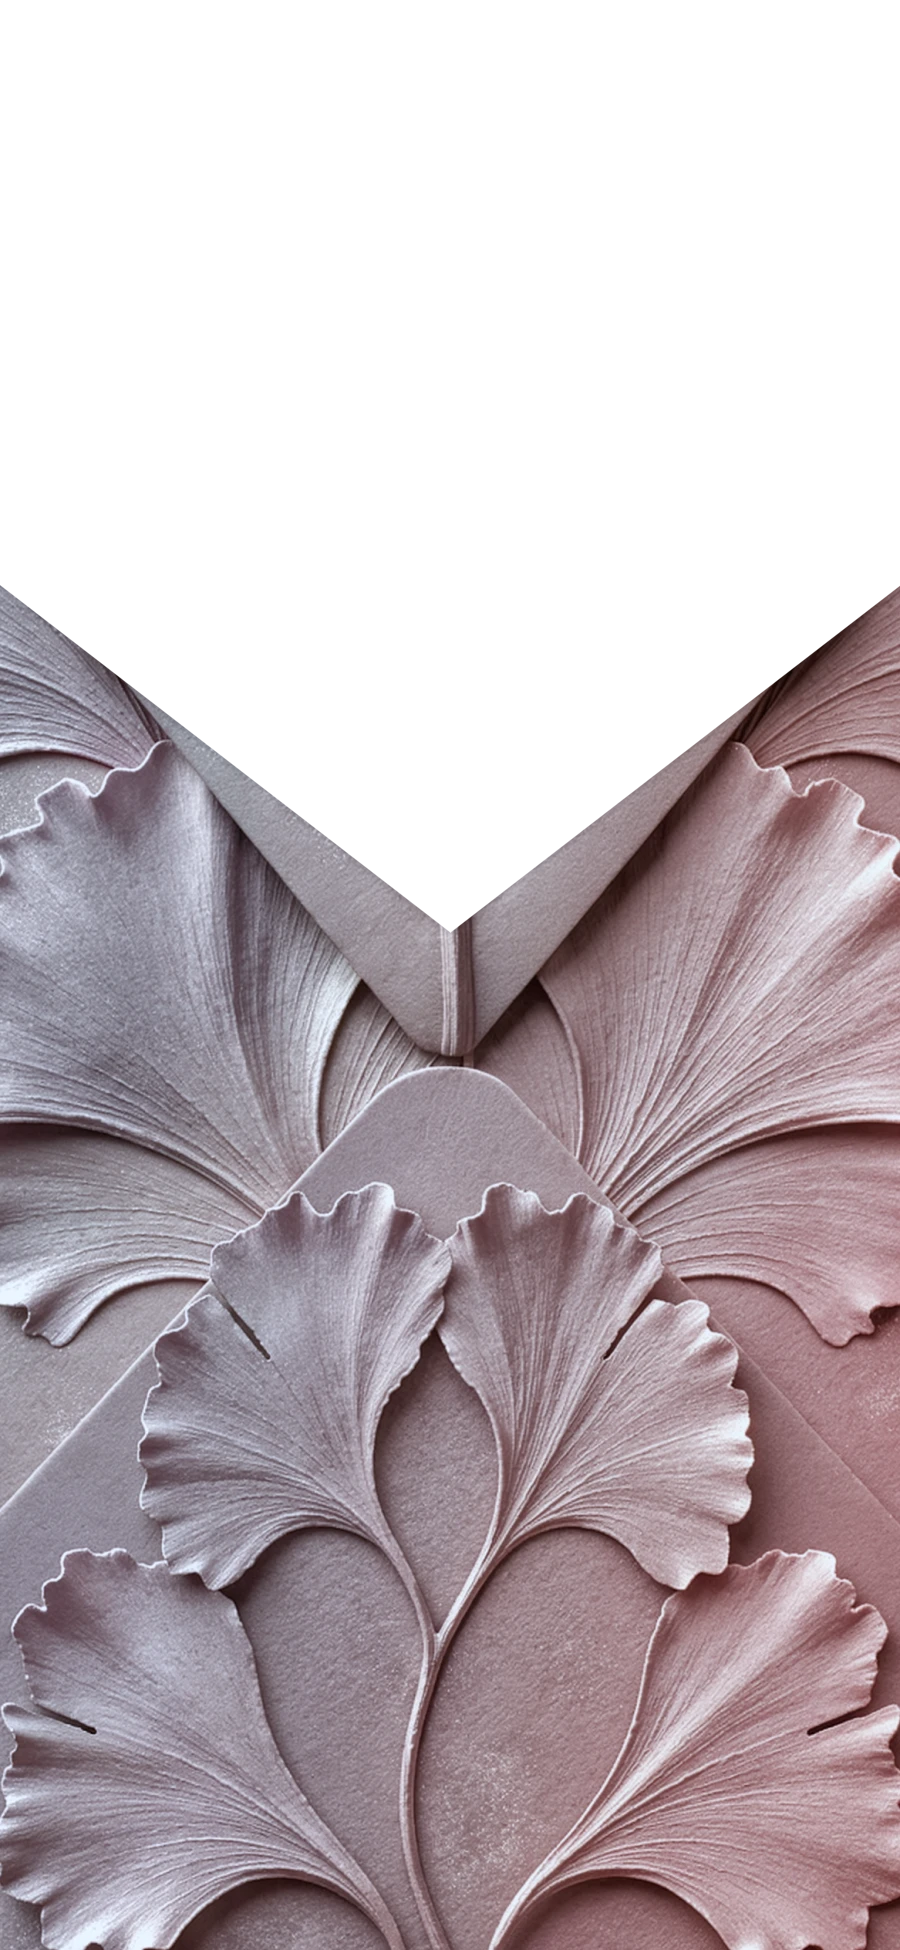
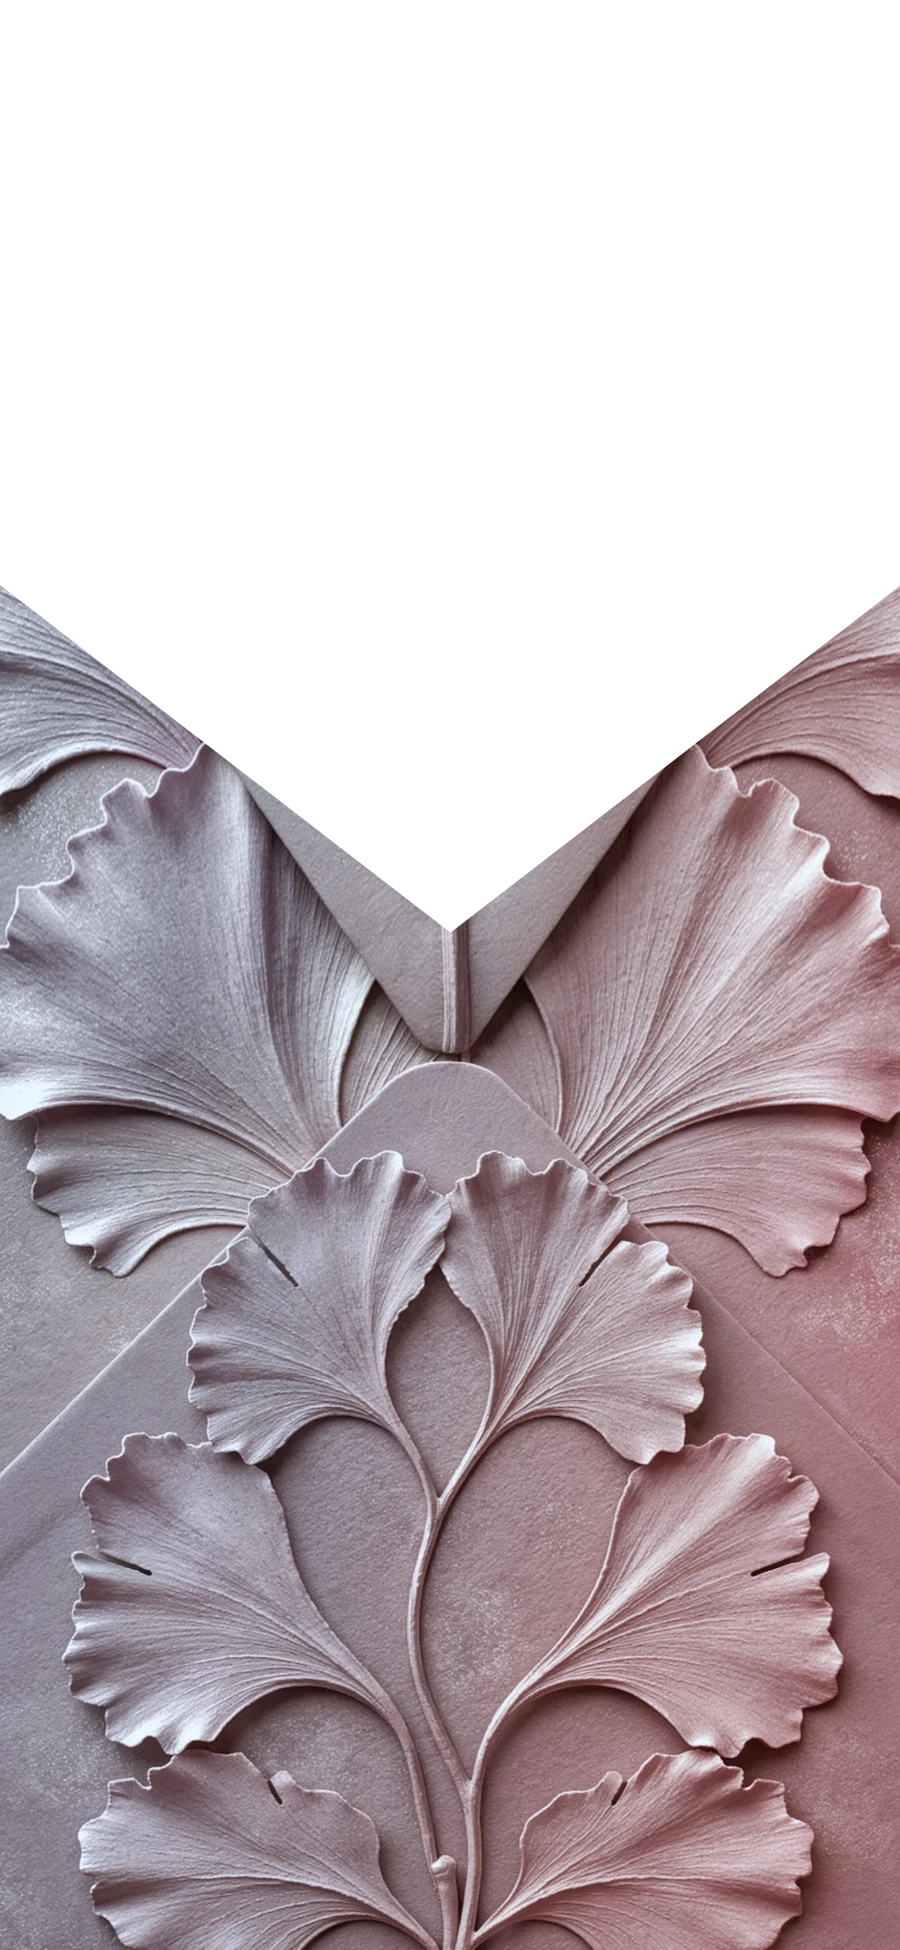
Website: cover B shows the whole design, picture's own fold only (no drawn flap edge or shadow band)

diff --git a/Wedding Website/index - cover B.html b/Wedding Website/index - cover B.html
@@ -13,11 +13,11 @@
 <link rel="preload" as="image" href="assets/seal.webp?v=20261126c">
 <link rel="stylesheet" href="style.css?v=20261126c">
 <style>/* version B: the second cover artwork */
-.env-body { background-image: url(assets/cover-b/envelope-body.webp?v=1); }
-.flap-face.front { background-image: url(assets/cover-b/envelope-flap.webp?v=1); }
-.flap-face.dim { background-image: url(assets/cover-b/envelope-flap-dim.webp?v=1); }
-.flap-face.back { background-image: url(assets/cover-b/envelope-flap-back.webp?v=1); }
-.flap-shadow { background-image: url(assets/cover-b/envelope-flap-shadow.webp?v=1); }
+.env-body { background-image: url(assets/cover-b/envelope-body.webp?v=2); }
+.flap-face.front { background-image: url(assets/cover-b/envelope-flap.webp?v=2); }
+.flap-face.dim { background-image: url(assets/cover-b/envelope-flap-dim.webp?v=2); }
+.flap-face.back { background-image: url(assets/cover-b/envelope-flap-back.webp?v=2); }
+.flap-shadow { background-image: url(assets/cover-b/envelope-flap-shadow.webp?v=2); }
 </style>
 </head>
 <body class="locked">

diff --git a/Wedding Website/tools/envelope_from_image.py b/Wedding Website/tools/envelope_from_image.py
@@ -31,11 +31,24 @@ def main(src):
         for n in NAMES: shutil.copy(OUT / n, bak / n)
     im = cv2.imread(src)
     h, w = im.shape[:2]
-    if w / h > W / H:                         # too wide: crop the sides
-        nw = int(round(h * W / H)); x0 = (w - nw) // 2; im = im[:, x0:x0 + nw]
-    else:                                     # too tall: crop top and bottom
-        nh = int(round(w * H / W)); y0 = (h - nh) // 2; im = im[y0:y0 + nh]
-    art = cv2.resize(im, (W, H), interpolation=cv2.INTER_AREA).astype(np.float32)
+    TIP = float(sys.argv[3]) if len(sys.argv) > 3 else None      # where the flap's point is in the picture (0..1 of its height)
+    ZOOM = float(sys.argv[4]) if len(sys.argv) > 4 else 1.0      # 1 = the picture's full width is shown
+    if TIP is None:                                              # simple centre crop
+        if w / h > W / H:
+            nw = int(round(h * W / H)); x0 = (w - nw) // 2; im = im[:, x0:x0 + nw]
+        else:
+            nh = int(round(w * H / W)); y0 = (h - nh) // 2; im = im[y0:y0 + nh]
+        art = cv2.resize(im, (W, H), interpolation=cv2.INTER_AREA).astype(np.float32)
+    else:
+        # show (almost) the whole picture: full width, and its height gently re-spaced so that the picture's own flap
+        # point lands exactly where the animation lifts the flap (53.5 % down). Above and below the point are scaled separately.
+        sc = W * ZOOM / w; xs = (np.arange(W, dtype=np.float32) + (w * sc - W) / 2) / sc
+        tip_src, tip_dst = TIP * h, 0.535 * H
+        yd = np.arange(H, dtype=np.float32)
+        ys = np.where(yd <= tip_dst, yd * tip_src / tip_dst, tip_src + (yd - tip_dst) * (h - tip_src) / (H - tip_dst))
+        print("vertical scale above / below the flap point: %.2f / %.2f" % (tip_dst / (tip_src * sc), (H - tip_dst) / ((h - tip_src) * sc)))
+        mx, my = np.meshgrid(xs, ys)
+        art = cv2.remap(cv2.GaussianBlur(im, (0, 0), 0.6), mx.astype(np.float32), my.astype(np.float32), cv2.INTER_AREA if sc < 1 else cv2.INTER_CUBIC).astype(np.float32)
     # gentle grade toward the site's dusty mauve (target mean about R152 G140 B152), keeping the picture's own light and shade
     mean = art.reshape(-1, 3).mean(0); target = np.array([152, 140, 152], np.float32)      # BGR order happens to be symmetric here
     art = np.clip(art * (1 + 0.8 * (target / mean - 1)), 0, 255)
@@ -46,19 +59,19 @@ def main(src):
     # ---- top flap (its own sheet) ----
     fa = smooth01((flap_edge - yy) / 2.0 + 0.5)[:FH]
     near = np.clip((flap_edge - yy) / 7.0, 0, 1)[:FH]          # a thin lit paper edge along the cut
-    flap = art[:FH] * (1 + 0.10 * (1 - near))[..., None]
+    flap = art[:FH] * (1 + 0.02 * (1 - near))[..., None]
     save("envelope-flap.webp", flap, fa)
     save("envelope-flap-dim.webp", flap * np.array([0.50, 0.44, 0.50], np.float32), fa)
     back = cv2.GaussianBlur(art[:FH], (0, 0), 28) * 0.93
     save("envelope-flap-back.webp", back, fa)
     # ---- soft shadow the closed flap casts on the envelope ----
     d = (yy - flap_edge)[:SH]
-    sh = np.exp(-np.clip(d, 0, None) / 16.0) * (d > -2) * 0.42
+    sh = np.exp(-np.clip(d, 0, None) / 16.0) * (d > -2) * 0.12
     save("envelope-flap-shadow.webp", np.zeros((SH, W, 3), np.float32) + np.array([40, 26, 40], np.float32), sh)
     # ---- body: everything below the mouth ----
     ba = smooth01((yy - mouth_edge) / 2.0 + 0.5)
     hem = np.clip((yy - mouth_edge) / 9.0, 0, 1)
-    body = art * (1 - 0.10 * (1 - hem))[..., None]
+    body = art * (1 - 0.03 * (1 - hem))[..., None]
     save("envelope-body.webp", body, ba)
 
 if __name__ == "__main__":
